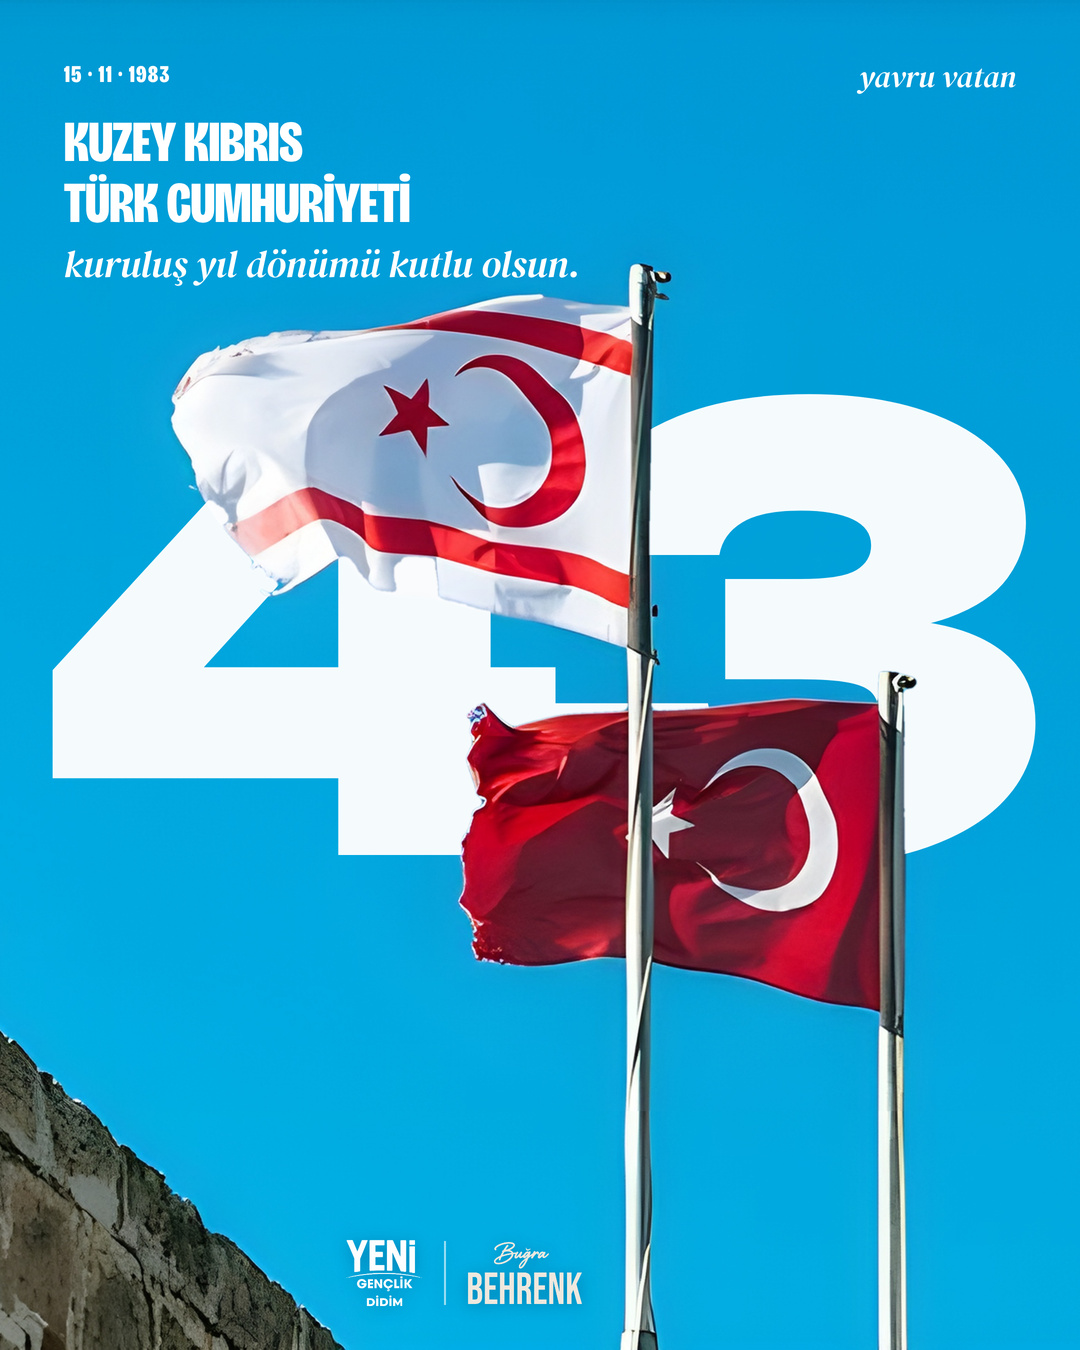
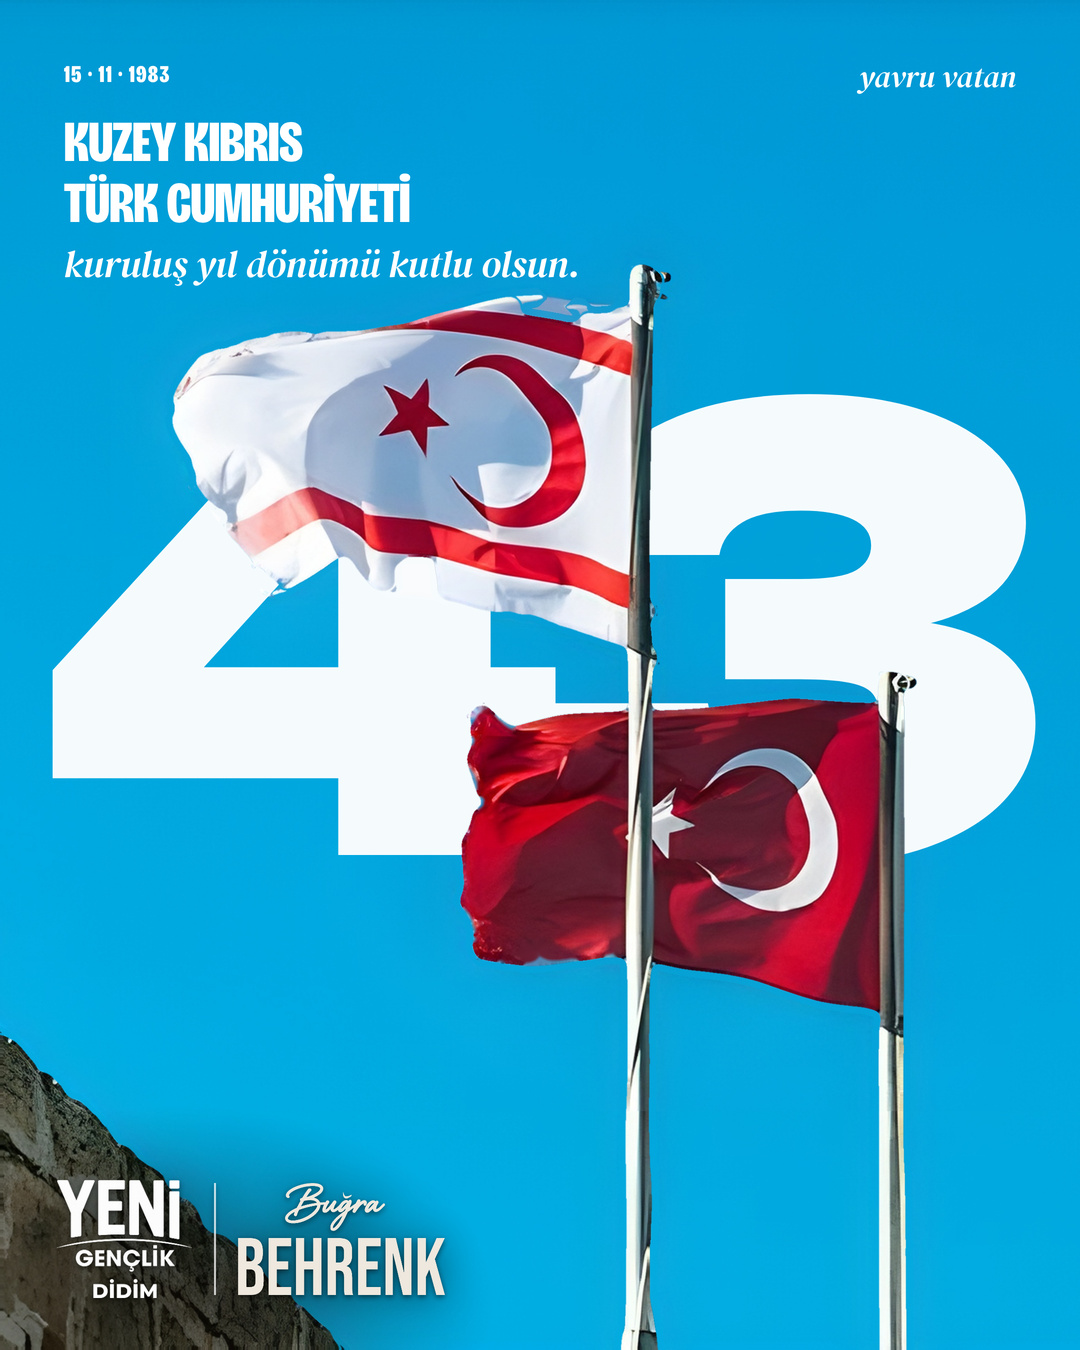
KKTC Buğra: bayrak kenarları düzeltildi, imza duvar üstünde büyütüldü
Claude-Session: https://claude.ai/code/session_01SatttGbgBLoCnk9KGLypWv

diff --git a/tasarim/kisisel/kktc-bugra/post.html b/tasarim/kisisel/kktc-bugra/post.html
@@ -11,13 +11,13 @@ html,body{margin:0;width:1080px;height:1350px;overflow:hidden;background:#1e8fd6
 .ust span:last-child{font:30px/1 DSi;letter-spacing:0}
 .baslik{position:absolute;left:64px;top:112px;font:58px/1.06 BG;letter-spacing:-.01em}
 .baslik em{display:block;font:38px/1.15 DSi;letter-spacing:0;margin-top:8px}
-.imza{position:absolute;left:346px;bottom:44px;display:flex;align-items:center;gap:22px}
-.imza .lg{height:66px}.imza .ay{width:1.5px;height:64px;background:rgba(255,255,255,.6)}.imza .is{height:62px}.imza{filter:drop-shadow(0 2px 8px rgba(0,40,80,.35))}
-</style><body>
-<img class="k" src="arka.jpg">
+.imza{position:absolute;left:56px;bottom:52px;display:flex;align-items:center;gap:22px}
+.imza .lg{height:118px}.imza .ay{width:1.5px;height:112px;background:rgba(255,255,255,.75)}.imza .is{height:112px}.imza{filter:drop-shadow(0 2px 3px rgba(0,0,0,.55)) drop-shadow(0 4px 18px rgba(0,0,0,.45))}
+.duvar{position:absolute;left:0;bottom:0;width:640px;height:380px;background:radial-gradient(420px 260px at 180px 330px,rgba(20,14,8,.5),transparent 75%)}</style><body>
+<img class="k" src="arka-temiz.jpg">
 <div class="n">43</div>
 <img class="k" src="on.png">
 <div class="ust"><span>15 · 11 · 1983</span><span>yavru vatan</span></div>
 <div class="baslik">KUZEY KIBRIS<br>TÜRK CUMHURİYETİ<em>kuruluş yıl dönümü kutlu olsun.</em></div>
-<div class="imza"><img class="lg" src="logo.png"><span class="ay"></span><img class="is" src="imza.png"></div>
+<div class="duvar"></div><div class="imza"><img class="lg" src="logo.png"><span class="ay"></span><img class="is" src="imza.png"></div>
 </body></html>
